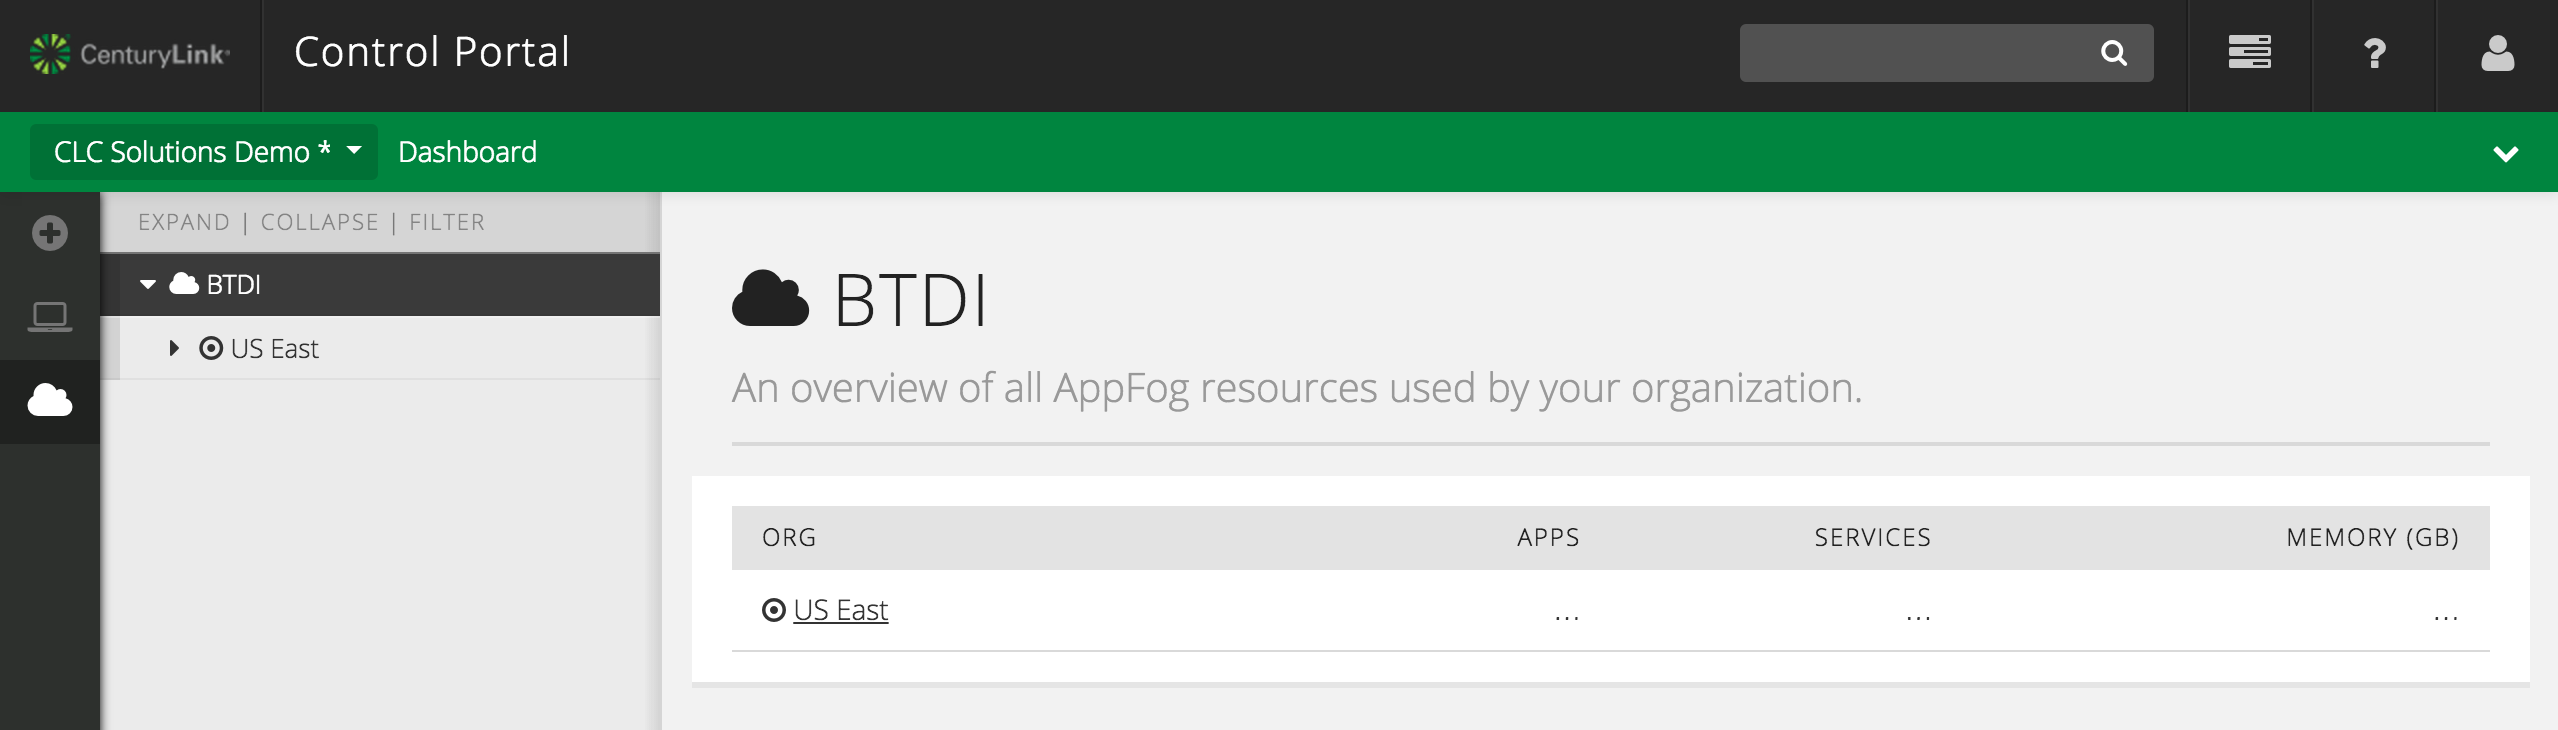
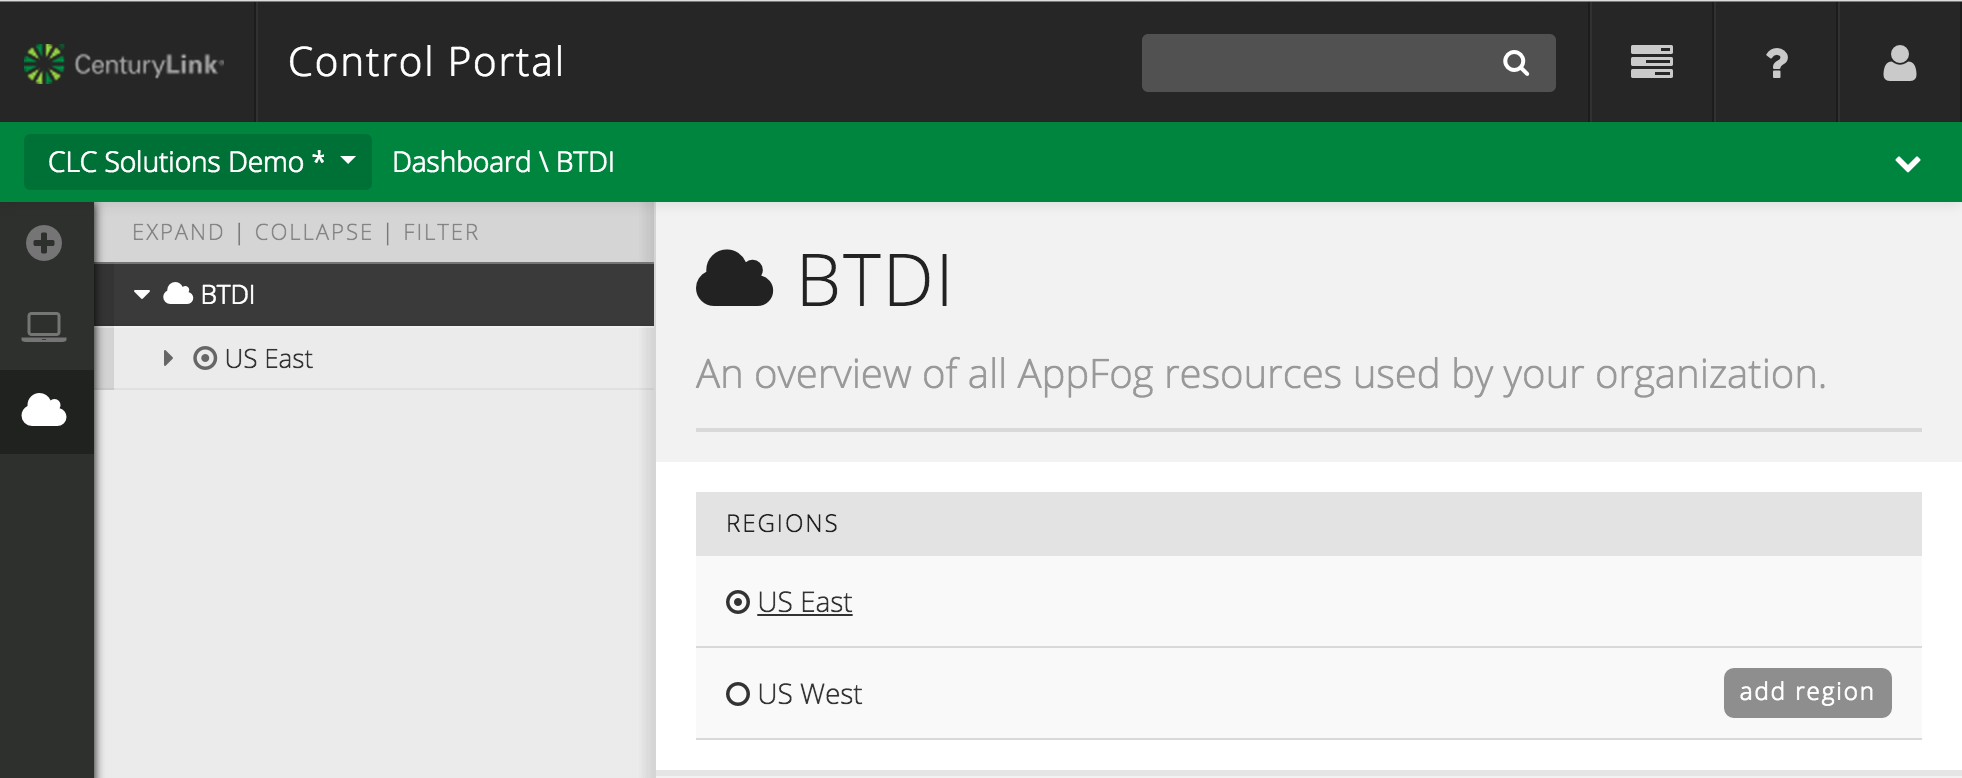
Updated AppFog getting started with addition of US West region and new add region buttons

diff --git a/AppFog/getting-started-with-appfog.md b/AppFog/getting-started-with-appfog.md
@@ -38,10 +38,8 @@ You may also navigate to AppFog via the icon on the left-side vertical navigatio
 
 ![AppFog icon in Vertical Navigation](../images/appfog-icon-nav.png)
 
-Navigate to AppFog using either navigation approach and now it is time to create an AppFog Organization unless someone else has done so for your Control Portal account. You will know that an AppFog Organization has been created for your account if there is no “create org” button and instead it looks something like the following:
+Navigate to AppFog using either navigation approach and now it is time to enable deployment to AppFog regions, US East and/or US West. Each region has its own "add region" button to enable it in your AppFog:
 
 ![AppFog Overview](../images/appfog-overview.png)
 
-If the AppFog Organization has not been created for your account, then click the "create org" button:
-
-![AppFog Create Organization](../images/appfog-create-org.png)
+If the region has already been enabled then there the region will be a link to the region overview page and no "add region" button will be displayed on the region row.
